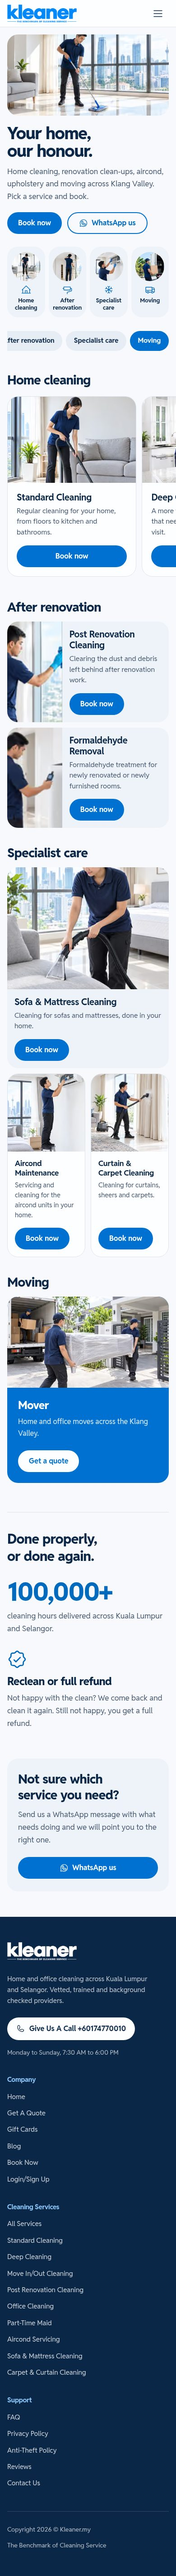
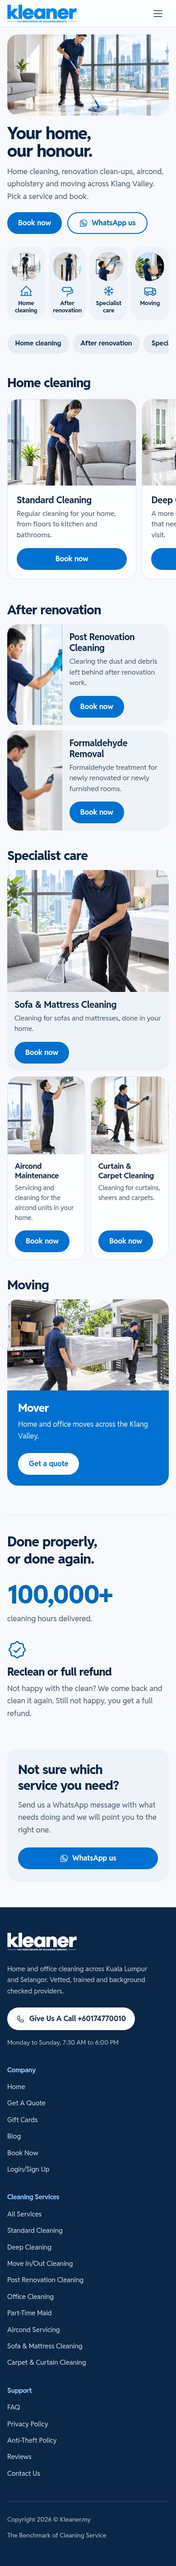
Fix finish review findings on the services page
Pill strip clears while the hero is in view and slides only the strip,
never the page. Launcher icons up to 28px. Specialist care buttons sit
under their copy on desktop. Proof line trimmed to the confirmed fact.

Claude-Session: https://claude.ai/code/session_01Y2LuFQ22tj55cTncHj8rPP

diff --git a/src/data/copy/services.en.ts b/src/data/copy/services.en.ts
@@ -60,7 +60,7 @@ export const SERVICES_EN: ServicesCopy = {
     title: 'Done properly, or done again.',
     hours: {
       figure: '100,000+',
-      text: 'cleaning hours delivered across Kuala Lumpur and Selangor.',
+      text: 'cleaning hours delivered.',
     },
     guarantee: {
       title: 'Reclean or full refund',
